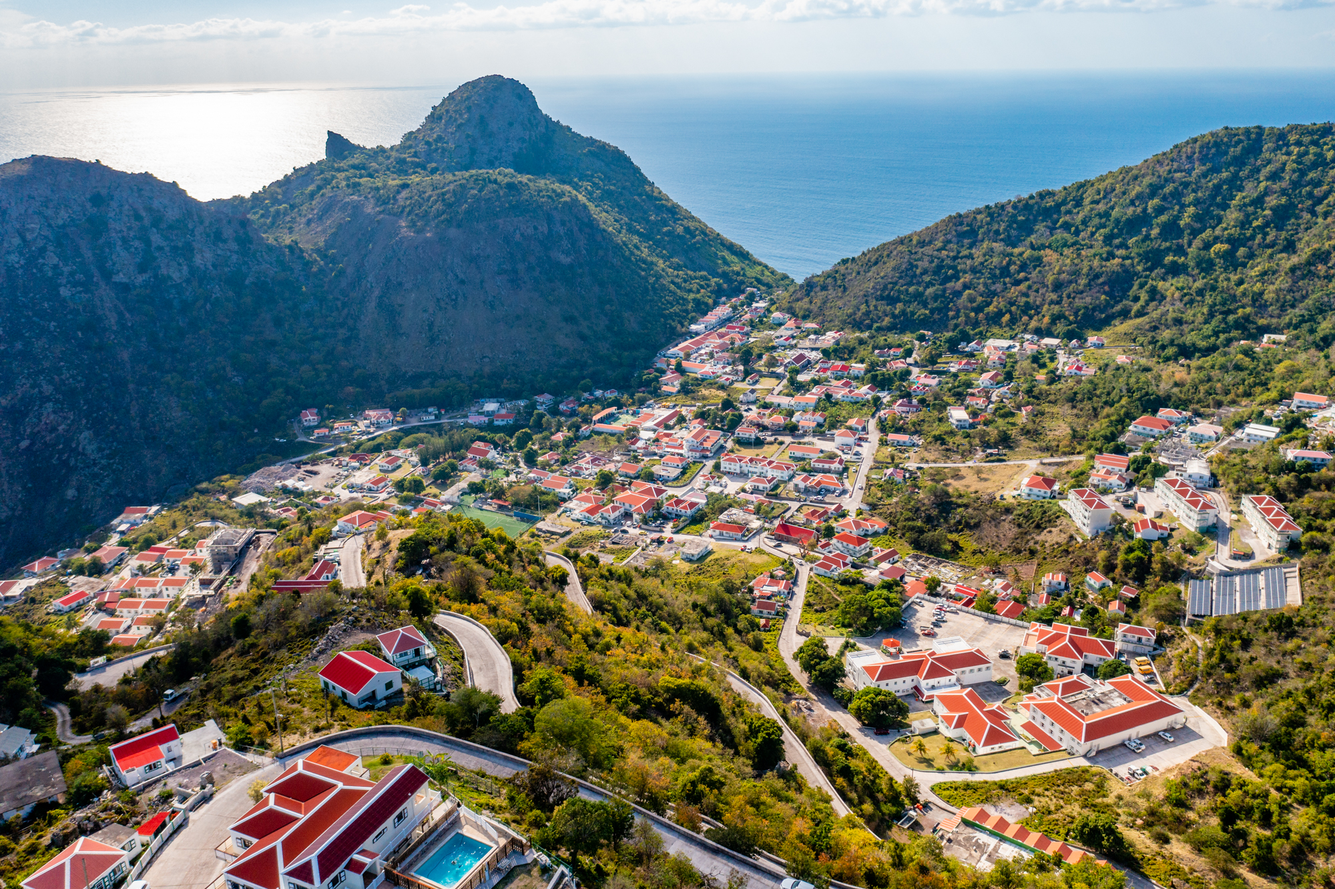
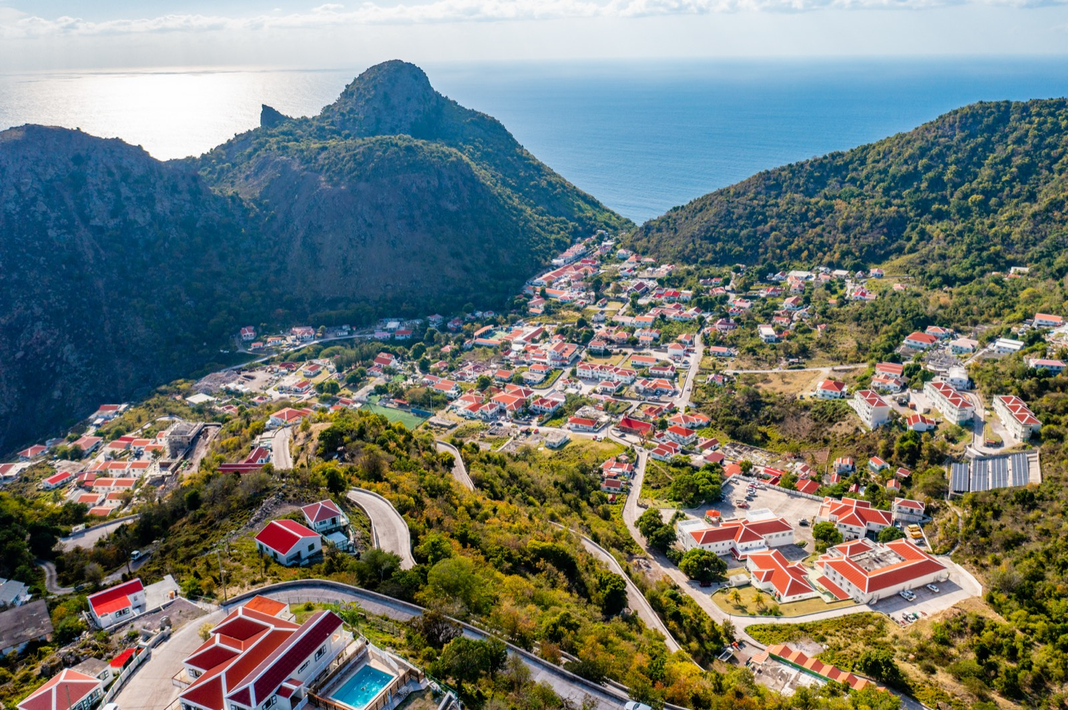
SEO: optimize images, add img dimensions, real social share images
- Compress/resize heavy local JPEGs (website-photos 11MB -> 3MB; the-bottom
  3.1MB->586KB, glasshouse 2.7MB->535KB) for better LCP/Core Web Vitals;
  kept originals where re-encoding would have grown them.
- Add width/height to content <img> tags to eliminate layout shift (CLS).
- Replace logo og:image/twitter:image with scenic Saba photos on
  index/buy/rent/sell/about/contact for stronger social click-through.

diff --git a/index.html b/index.html
@@ -17,7 +17,7 @@
   <!-- Open Graph / Social Media -->
   <meta property="og:title" content="Saban Realty | Saba Island Real Estate, Caribbean Netherlands">
   <meta property="og:description" content="Discover exclusive homes, luxury villas, and vacation rentals on Saba Island. Saban Realty is your trusted RE/MAX partner for Caribbean Netherlands real estate.">
-  <meta property="og:image" content="https://pub-78b56158b83942189fa28a4d5939bb79.r2.dev/assets/logo-horizontal.png">
+  <meta property="og:image" content="https://sabanrealty.com/images/website-photos/saba-island-drone.jpg">
   <meta property="og:url" content="https://sabanrealty.com/">
   <meta property="og:type" content="website">
 
@@ -25,7 +25,7 @@
   <meta name="twitter:card" content="summary_large_image">
   <meta name="twitter:title" content="Saban Realty | Saba Island Real Estate, Caribbean Netherlands">
   <meta name="twitter:description" content="Discover exclusive homes, luxury villas, and vacation rentals on Saba Island. Saban Realty is your trusted RE/MAX partner for Caribbean Netherlands real estate.">
-  <meta name="twitter:image" content="https://pub-78b56158b83942189fa28a4d5939bb79.r2.dev/assets/logo-horizontal.png">
+  <meta name="twitter:image" content="https://sabanrealty.com/images/website-photos/saba-island-drone.jpg">
 
   <title>Saban Realty | Saba Island Real Estate, Caribbean Netherlands</title>
   <link rel="canonical" href="https://sabanrealty.com/">
@@ -172,7 +172,7 @@
   <section class="hero">
     <div class="hero-bg">
       <!-- Replace with your Cloudflare R2 image URL -->
-      <img src="images/website-photos/saba-island-drone.jpg" alt="Saba Island aerial view Caribbean Netherlands">
+      <img src="images/website-photos/saba-island-drone.jpg" width="1600" height="900" alt="Saba Island aerial view Caribbean Netherlands">
     </div>
     <div class="hero-overlay"></div>
     

diff --git a/about.html b/about.html
@@ -17,7 +17,7 @@
   <!-- Open Graph / Social Media -->
   <meta property="og:title" content="About Saban Realty | Your Saba Island Real Estate Experts">
   <meta property="og:description" content="Meet the Saban Realty team. With deep roots on Saba Island and RE/MAX network reach, we bring local expertise and global connections to Caribbean real estate.">
-  <meta property="og:image" content="https://pub-78b56158b83942189fa28a4d5939bb79.r2.dev/assets/logo-horizontal.png">
+  <meta property="og:image" content="https://sabanrealty.com/images/website-photos/the-bottom-color.jpg">
   <meta property="og:url" content="https://sabanrealty.com/about.html">
   <meta property="og:type" content="website">
 
@@ -25,7 +25,7 @@
   <meta name="twitter:card" content="summary_large_image">
   <meta name="twitter:title" content="About Saban Realty | Your Saba Island Real Estate Experts">
   <meta name="twitter:description" content="Meet the Saban Realty team. With deep roots on Saba Island and RE/MAX network reach, we bring local expertise and global connections to Caribbean real estate.">
-  <meta name="twitter:image" content="https://pub-78b56158b83942189fa28a4d5939bb79.r2.dev/assets/logo-horizontal.png">
+  <meta name="twitter:image" content="https://sabanrealty.com/images/website-photos/the-bottom-color.jpg">
 
   <title>About Saban Realty | Your Saba Island Real Estate Experts</title>
 
@@ -192,7 +192,7 @@
   <section class="our-story-section">
     <div class="our-story-grid">
       <div class="our-story-image fade-in">
-        <img src="images/website-photos/the-bottom-color.jpg" alt="The Bottom, Saba - aerial view">
+        <img src="images/website-photos/the-bottom-color.jpg" width="1600" height="1065" alt="The Bottom, Saba - aerial view">
       </div>
       <div class="our-story-content fade-in">
         <p class="section-label">Our Story</p>

diff --git a/rent.html b/rent.html
@@ -17,7 +17,7 @@
   <!-- Open Graph / Social Media -->
   <meta property="og:title" content="Vacation Rentals on Saba Island | Saban Realty">
   <meta property="og:description" content="Explore vacation rental properties on Saba Island. From cozy cottages to luxury villas, find your perfect Caribbean getaway.">
-  <meta property="og:image" content="https://pub-78b56158b83942189fa28a4d5939bb79.r2.dev/assets/logo-horizontal.png">
+  <meta property="og:image" content="https://sabanrealty.com/images/website-photos/saba-village-color.jpg">
   <meta property="og:url" content="https://sabanrealty.com/rent.html">
   <meta property="og:type" content="website">
 
@@ -25,7 +25,7 @@
   <meta name="twitter:card" content="summary_large_image">
   <meta name="twitter:title" content="Vacation Rentals on Saba Island | Saban Realty">
   <meta name="twitter:description" content="Explore vacation rental properties on Saba Island. From cozy cottages to luxury villas, find your perfect Caribbean getaway.">
-  <meta name="twitter:image" content="https://pub-78b56158b83942189fa28a4d5939bb79.r2.dev/assets/logo-horizontal.png">
+  <meta name="twitter:image" content="https://sabanrealty.com/images/website-photos/saba-village-color.jpg">
 
   <title>Vacation Rentals on Saba Island | Saban Realty</title>
 
@@ -152,7 +152,7 @@
   <section class="island-escape-section">
     <div class="island-escape-grid">
       <div class="island-escape-image fade-in">
-        <img src="images/website-photos/saba-mountain-village.jpg" alt="Mount Scenery, Saba Island" loading="lazy">
+        <img src="images/website-photos/saba-mountain-village.jpg" width="1600" height="900" alt="Mount Scenery, Saba Island" loading="lazy">
       </div>
       <div class="island-escape-content fade-in">
         <h2>Your Island Escape Awaits</h2>

diff --git a/sell.html b/sell.html
@@ -17,7 +17,7 @@
   <!-- Open Graph / Social Media -->
   <meta property="og:title" content="Sell Your Saba Island Property | List with Saban Realty">
   <meta property="og:description" content="List your Saba Island property with Saban Realty. Reach qualified buyers worldwide through the RE/MAX network. Get a free property appraisal today.">
-  <meta property="og:image" content="https://pub-78b56158b83942189fa28a4d5939bb79.r2.dev/assets/logo-horizontal.png">
+  <meta property="og:image" content="https://sabanrealty.com/images/website-photos/the-bottom-aerial.jpg">
   <meta property="og:url" content="https://sabanrealty.com/sell.html">
   <meta property="og:type" content="website">
 
@@ -25,7 +25,7 @@
   <meta name="twitter:card" content="summary_large_image">
   <meta name="twitter:title" content="Sell Your Saba Island Property | List with Saban Realty">
   <meta name="twitter:description" content="List your Saba Island property with Saban Realty. Reach qualified buyers worldwide through the RE/MAX network. Get a free property appraisal today.">
-  <meta name="twitter:image" content="https://pub-78b56158b83942189fa28a4d5939bb79.r2.dev/assets/logo-horizontal.png">
+  <meta name="twitter:image" content="https://sabanrealty.com/images/website-photos/the-bottom-aerial.jpg">
 
   <title>Sell Your Saba Island Property | List with Saban Realty</title>
 
@@ -236,7 +236,7 @@
         </div>
       </div>
       <div class="sell-process-image fade-in">
-        <img src="images/website-photos/sail-boat-color.jpeg" alt="Saba Island coastline" loading="lazy">
+        <img src="images/website-photos/sail-boat-color.jpeg" width="1080" height="608" alt="Saba Island coastline" loading="lazy">
       </div>
     </div>
   </section>

diff --git a/st-eustatius.html b/st-eustatius.html
@@ -111,7 +111,7 @@
   <section class="our-story-section">
     <div class="our-story-grid">
       <div class="our-story-image fade-in">
-        <img src="images/website-photos/st-eustatius-aerial.jpg" alt="Aerial view of St. Eustatius and the forested peak of The Quill">
+        <img src="images/website-photos/st-eustatius-aerial.jpg" width="1000" height="550" alt="Aerial view of St. Eustatius and the forested peak of The Quill">
       </div>
       <div class="our-story-content fade-in">
         <p class="section-label">About the Island</p>
@@ -170,7 +170,7 @@
         <p>Wander Oranjestad now and you'll find museums, restored warehouses, and quiet streets where that long history is never far from view.</p>
       </div>
       <div class="discover-saba-image fade-in">
-        <img src="images/website-photos/st-eustatius-oranjestad.jpg" alt="Oranjestad, St. Eustatius, with the green peak of The Quill behind" loading="lazy">
+        <img src="images/website-photos/st-eustatius-oranjestad.jpg" width="1000" height="562" alt="Oranjestad, St. Eustatius, with the green peak of The Quill behind" loading="lazy">
       </div>
     </div>
   </section>
@@ -179,7 +179,7 @@
   <section class="our-story-section">
     <div class="our-story-grid">
       <div class="our-story-image fade-in">
-        <img src="images/website-photos/st-eustatius-coast.jpg" alt="Coastal village and harbour on St. Eustatius" loading="lazy">
+        <img src="images/website-photos/st-eustatius-coast.jpg" width="1024" height="768" alt="Coastal village and harbour on St. Eustatius" loading="lazy">
       </div>
       <div class="our-story-content fade-in">
         <p class="section-label">Property on St. Eustatius</p>

diff --git a/contact.html b/contact.html
@@ -17,7 +17,7 @@
   <!-- Open Graph / Social Media -->
   <meta property="og:title" content="Contact Saban Realty | Saba Island Real Estate Inquiries">
   <meta property="og:description" content="Get in touch with Saban Realty for property inquiries on Saba Island. Call, email, or use our contact form. Located in Zion's Hill, Saba, Caribbean Netherlands.">
-  <meta property="og:image" content="https://pub-78b56158b83942189fa28a4d5939bb79.r2.dev/assets/logo-horizontal.png">
+  <meta property="og:image" content="https://sabanrealty.com/images/website-photos/saba-village-color.jpg">
   <meta property="og:url" content="https://sabanrealty.com/contact.html">
   <meta property="og:type" content="website">
 
@@ -25,7 +25,7 @@
   <meta name="twitter:card" content="summary_large_image">
   <meta name="twitter:title" content="Contact Saban Realty | Saba Island Real Estate Inquiries">
   <meta name="twitter:description" content="Get in touch with Saban Realty for property inquiries on Saba Island. Call, email, or use our contact form. Located in Zion's Hill, Saba, Caribbean Netherlands.">
-  <meta name="twitter:image" content="https://pub-78b56158b83942189fa28a4d5939bb79.r2.dev/assets/logo-horizontal.png">
+  <meta name="twitter:image" content="https://sabanrealty.com/images/website-photos/saba-village-color.jpg">
 
   <title>Contact Saban Realty | Saba Island Real Estate Inquiries</title>
   <link rel="canonical" href="https://sabanrealty.com/contact.html">

diff --git a/buy.html b/buy.html
@@ -17,7 +17,7 @@
   <!-- Open Graph / Social Media -->
   <meta property="og:title" content="Properties for Sale on Saba Island | Saban Realty">
   <meta property="og:description" content="Browse luxury villas, charming cottages, and land for sale on Saba Island, Caribbean Netherlands. Find your island dream home with Saban Realty.">
-  <meta property="og:image" content="https://pub-78b56158b83942189fa28a4d5939bb79.r2.dev/assets/logo-horizontal.png">
+  <meta property="og:image" content="https://sabanrealty.com/images/website-photos/saba-mountain-village.jpg">
   <meta property="og:url" content="https://sabanrealty.com/buy.html">
   <meta property="og:type" content="website">
 
@@ -25,7 +25,7 @@
   <meta name="twitter:card" content="summary_large_image">
   <meta name="twitter:title" content="Properties for Sale on Saba Island | Saban Realty">
   <meta name="twitter:description" content="Browse luxury villas, charming cottages, and land for sale on Saba Island, Caribbean Netherlands. Find your island dream home with Saban Realty.">
-  <meta name="twitter:image" content="https://pub-78b56158b83942189fa28a4d5939bb79.r2.dev/assets/logo-horizontal.png">
+  <meta name="twitter:image" content="https://sabanrealty.com/images/website-photos/saba-mountain-village.jpg">
 
   <title>Properties for Sale on Saba Island | Saban Realty</title>
 

diff --git a/blog.html b/blog.html
@@ -111,7 +111,7 @@
       <!-- Add more posts as another <a class="blog-card"> inside this grid. -->
       <div class="grid grid-3 blog-grid">
         <a href="blog/how-to-buy-property-in-saba.html" class="blog-card fade-in">
-          <img src="images/website-photos/saba-island-drone.jpg" alt="Aerial view of Saba Island in the Caribbean Netherlands">
+          <img src="images/website-photos/saba-island-drone.jpg" width="1600" height="900" alt="Aerial view of Saba Island in the Caribbean Netherlands">
           <div class="blog-card-body">
             <span class="blog-card-date">June 2026</span>
             <h3>How to Buy Property in Saba: A Foreigner's Guide</h3>

diff --git a/blog/how-to-buy-property-in-saba.html b/blog/how-to-buy-property-in-saba.html
@@ -134,7 +134,7 @@
 
   <!-- Feature Image -->
   <div class="article-feature-img">
-    <img src="../images/website-photos/saba-island-drone.jpg" alt="Aerial view of Saba Island in the Caribbean Netherlands">
+    <img src="../images/website-photos/saba-island-drone.jpg" width="1600" height="900" alt="Aerial view of Saba Island in the Caribbean Netherlands">
   </div>
 
   <!-- Article Body -->
